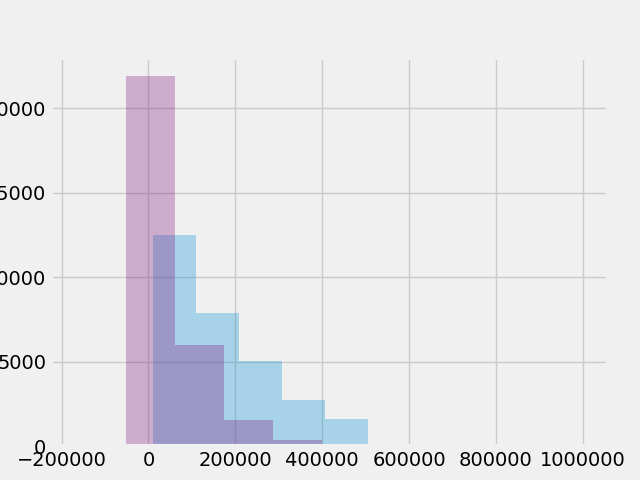
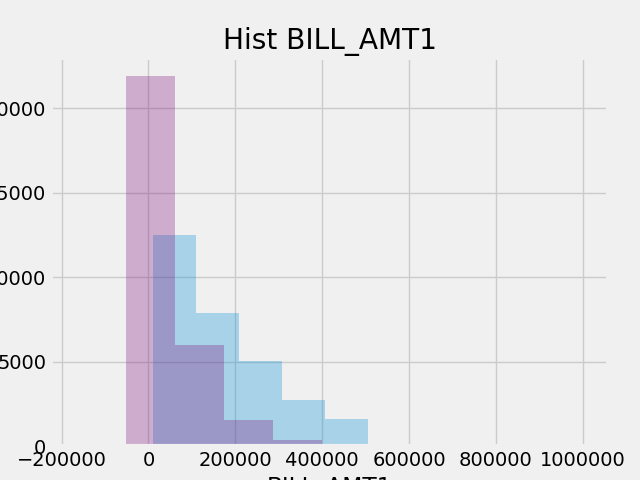
added some plotting details in the plots

Changed region(s): [[0.3438, 0.0625, 0.5625, 0.125], [0.5625, 0.0312, 0.6875, 0.125], [0.5625, 0.9688, 0.5938, 1.0]]

diff --git a/sanity_plots.py b/sanity_plots.py
@@ -24,6 +24,9 @@ file.close()
 for column in df:
     name = list(df[column])
     plt.hist(df[column], alpha = 0.3)
+    plt.title('Hist '+ column);
+    plt.xlabel(column); 
+    plt.ylabel('Count' + column);
     plt.savefig(os.path.join(my_path, "hist_{}.png".format(column)))
 
 """
